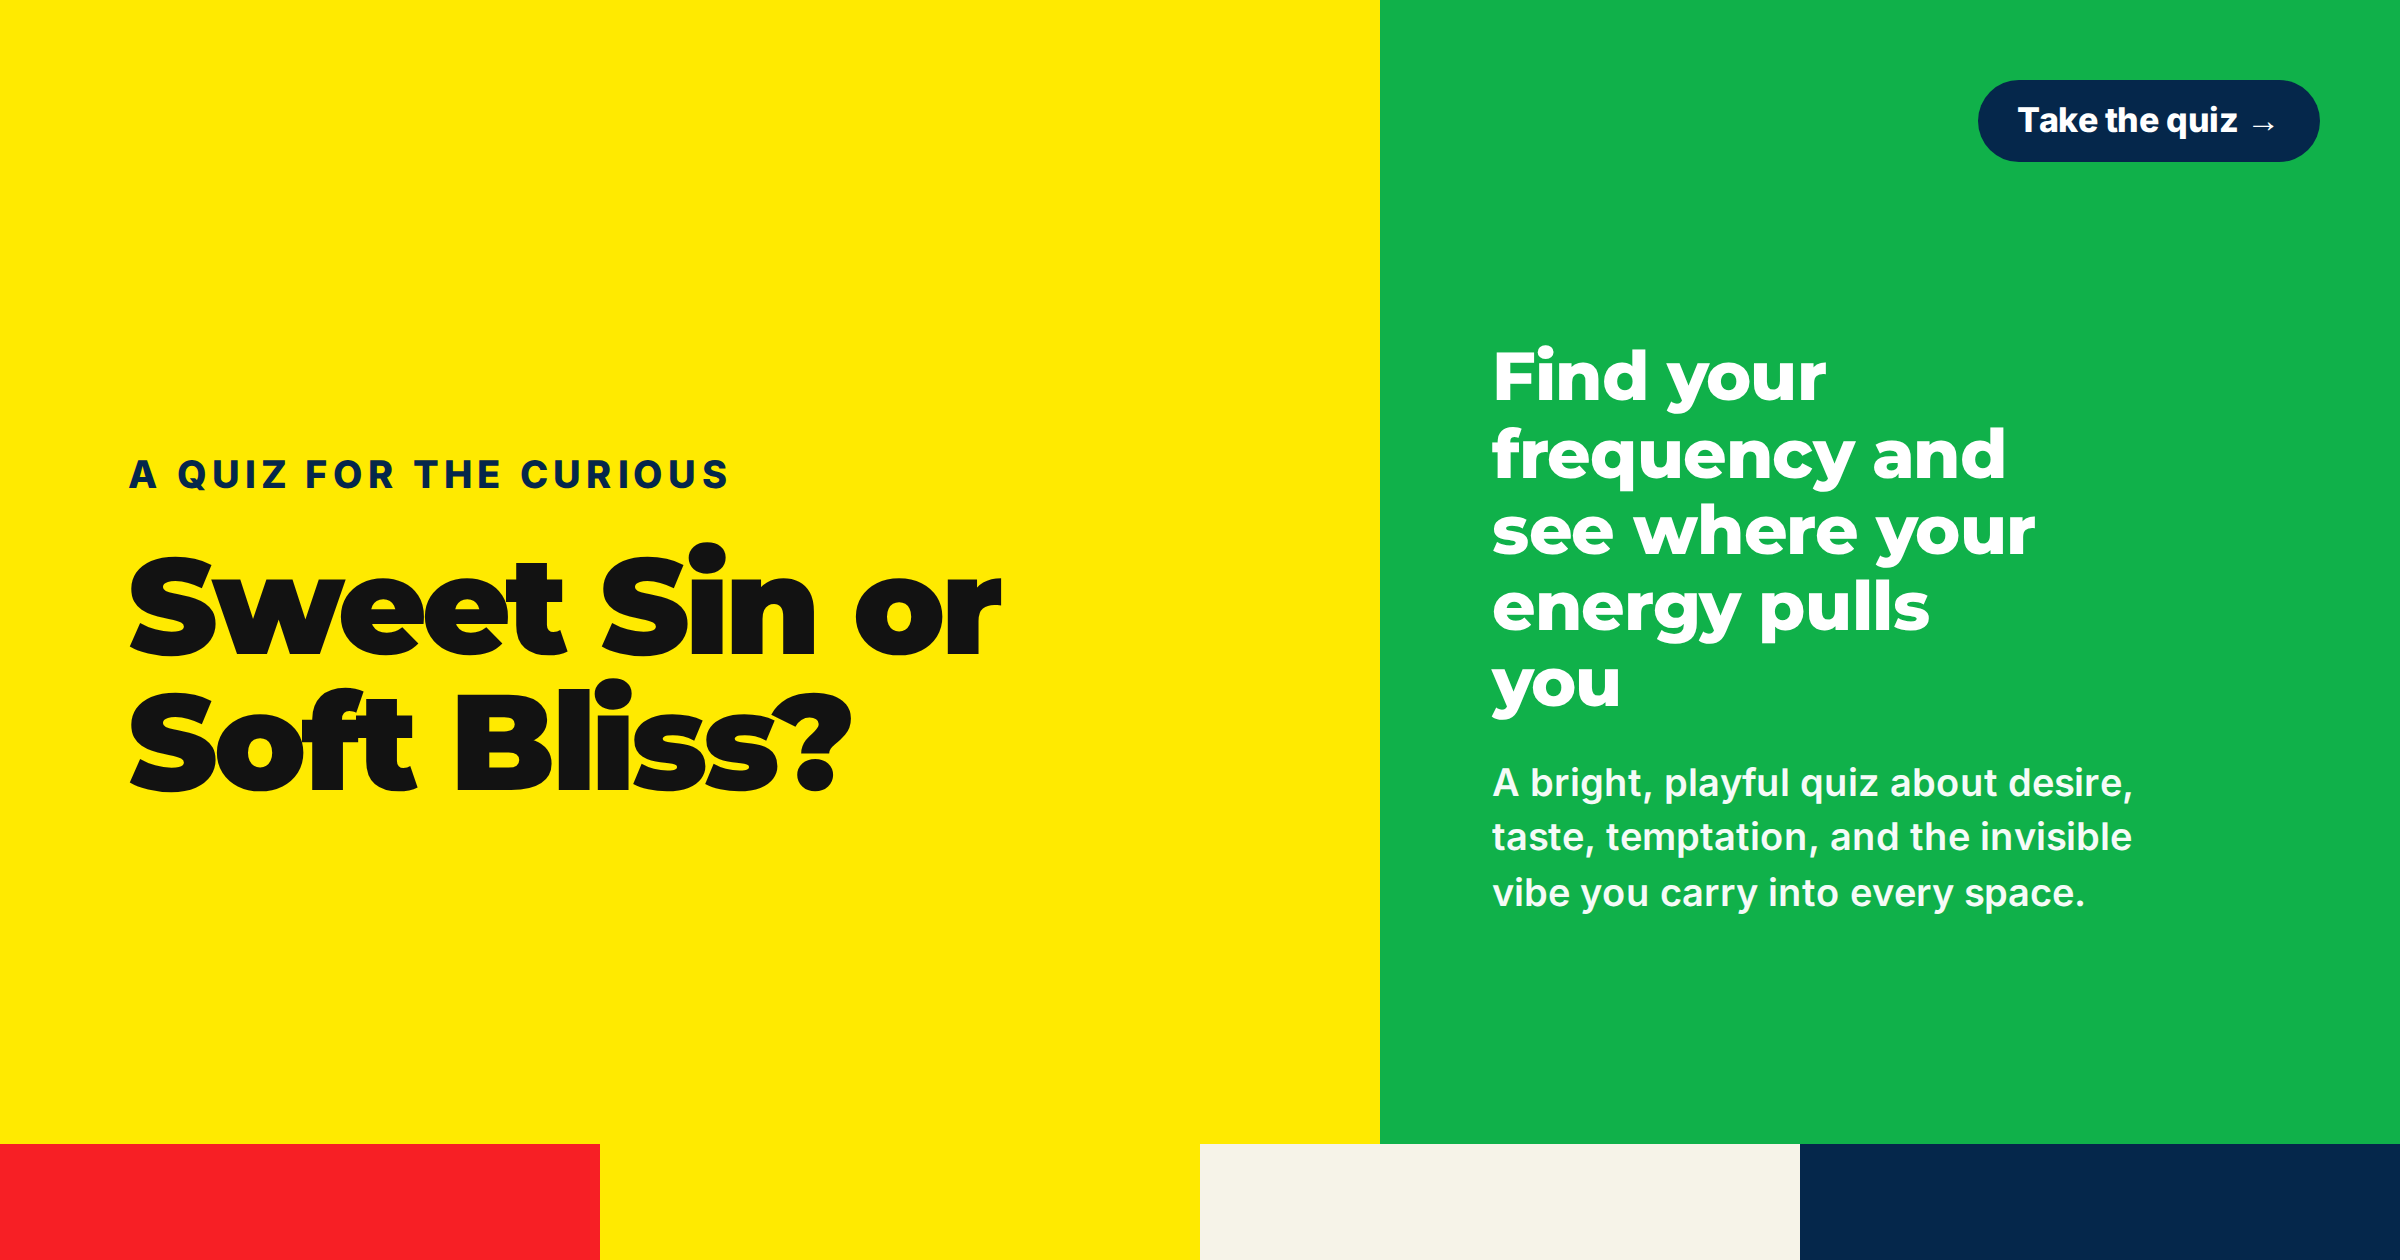
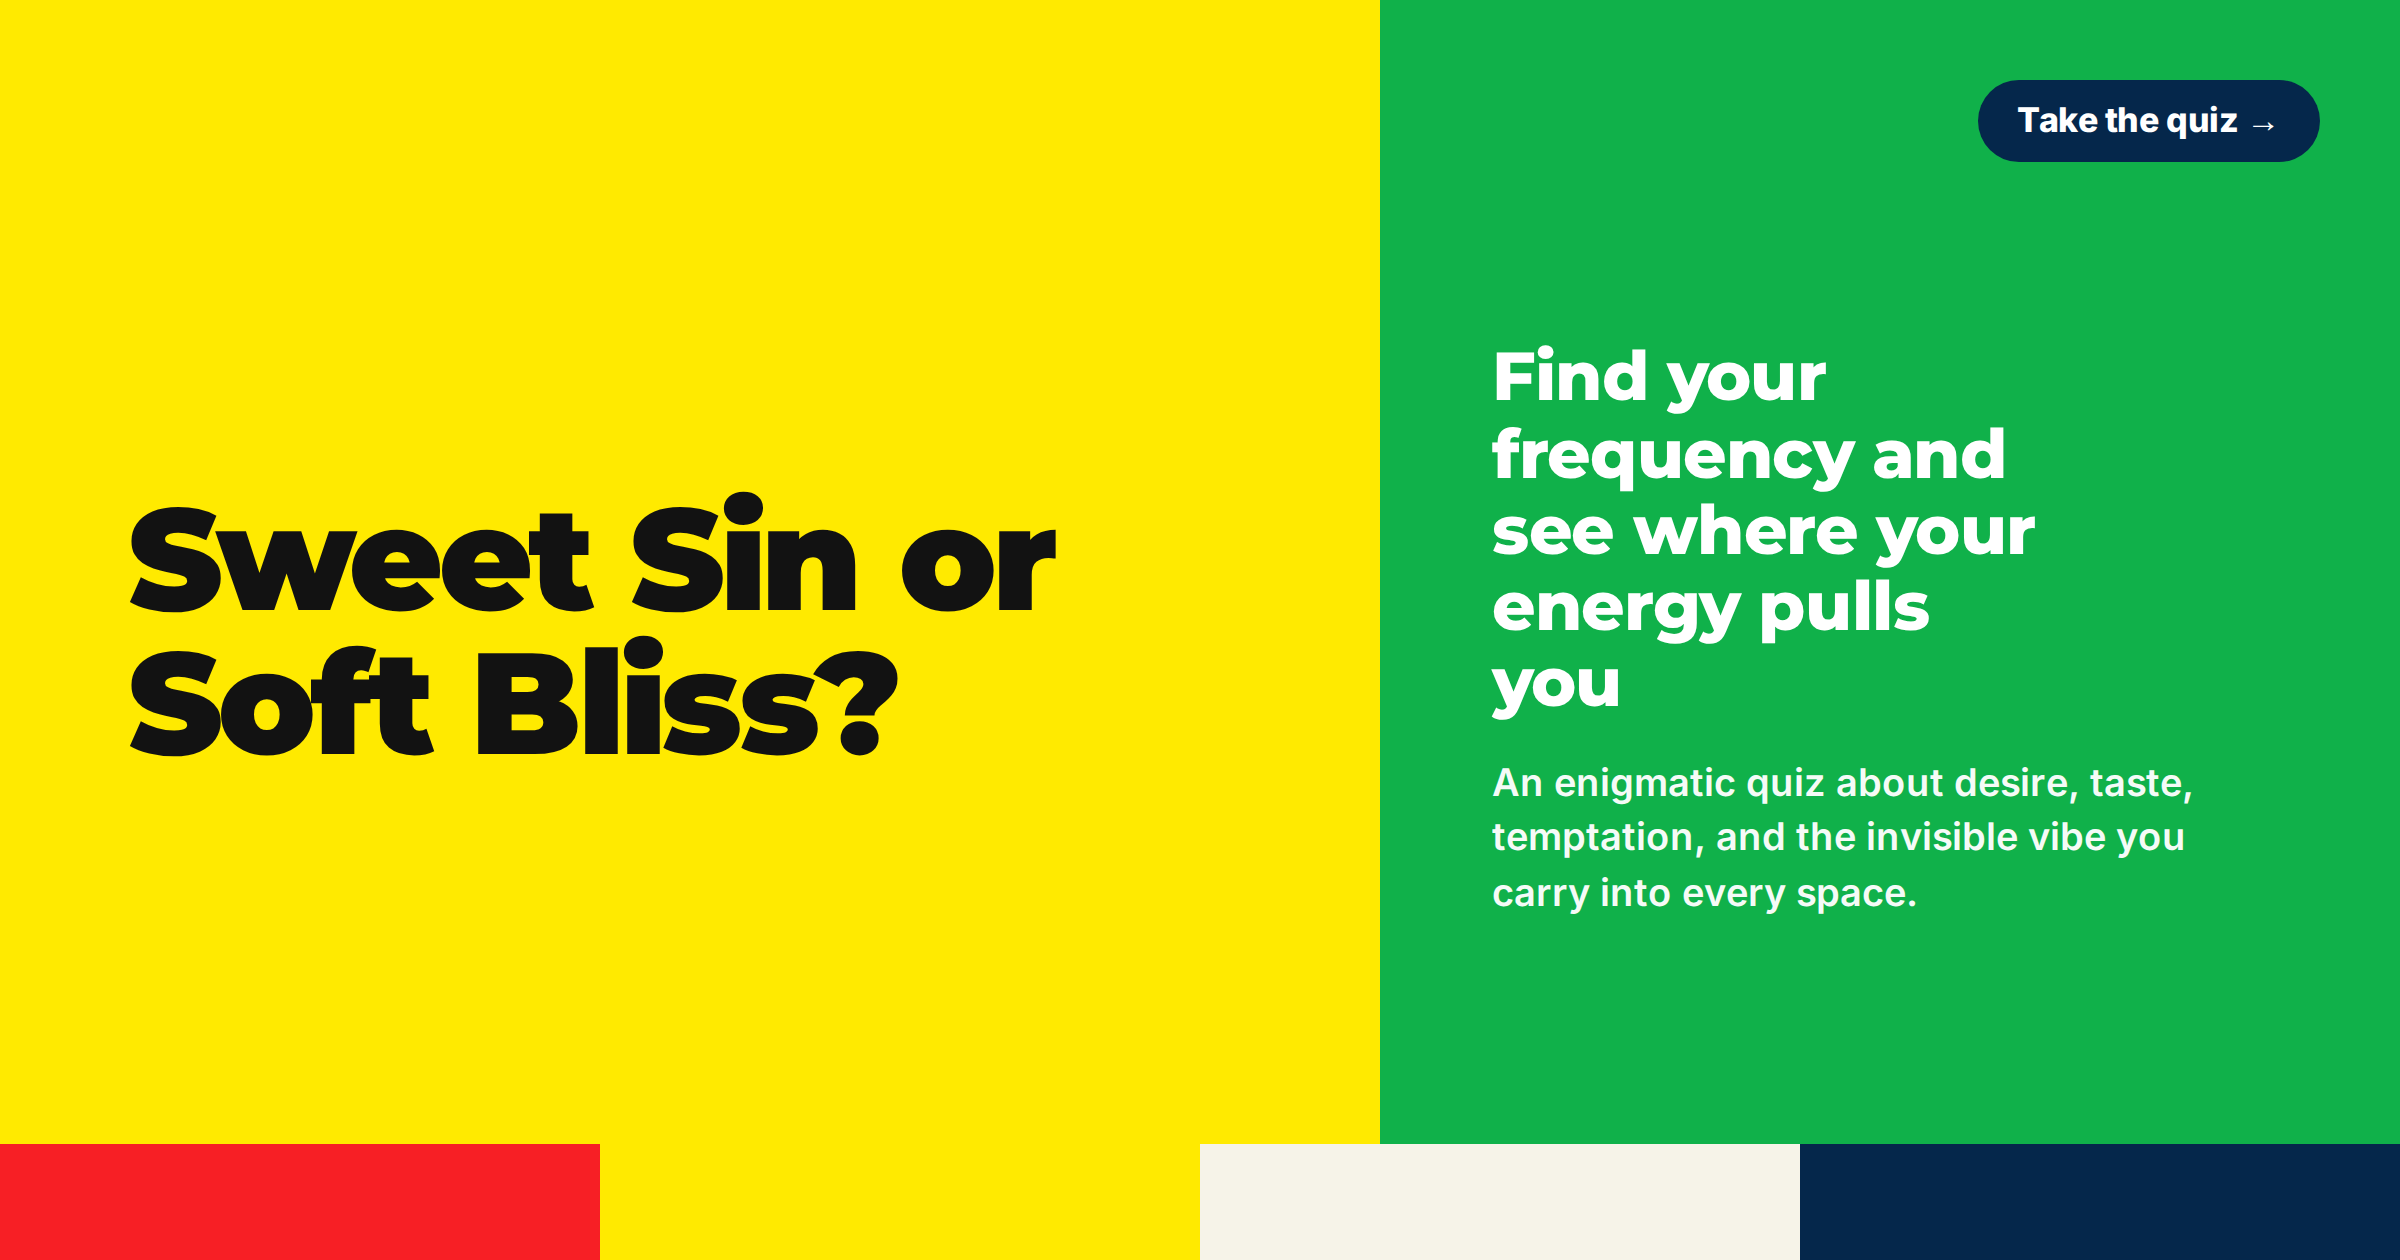
Resize desktop canvas, update description copy, refresh share card

Changed region(s): [[0.0312, 0.3405, 0.4375, 0.65], [0.625, 0.5881, 0.9062, 0.7429]]

diff --git a/index.html b/index.html
@@ -4,17 +4,19 @@
   <meta charset="UTF-8" />
   <meta name="viewport" content="width=device-width, initial-scale=1.0" />
   <meta property="og:title" content="Sweet Sin or Soft Bliss?" />
-  <meta property="og:description" content="Find your frequency and see where your energy pulls you. A bright, playful quiz about desire, taste, temptation, and the invisible vibe you carry into every space." />
+  <meta property="og:description" content="Find your frequency and see where your energy pulls you. An enigmatic quiz about desire, taste, temptation, and the invisible vibe you carry into every space." />
   <meta property="og:type" content="website" />
-  <meta property="og:image" content="./assets/share-card.png" />
+  <meta property="og:url" content="https://katie-ssh.github.io/sweet-sin-or-soft-bliss/" />
+  <meta property="og:image" content="https://katie-ssh.github.io/sweet-sin-or-soft-bliss/assets/share-card.png" />
   <meta property="og:image:width" content="1200" />
   <meta property="og:image:height" content="630" />
   <meta property="og:image:alt" content="Sweet Sin or Soft Bliss? — take the quiz" />
   <meta name="twitter:card" content="summary_large_image" />
   <meta name="twitter:title" content="Sweet Sin or Soft Bliss?" />
-  <meta name="twitter:description" content="Find your frequency and see where your energy pulls you. A bright, playful quiz about desire, taste, temptation, and the invisible vibe you carry into every space." />
-  <meta name="twitter:image" content="./assets/share-card.png" />
+  <meta name="twitter:description" content="Find your frequency and see where your energy pulls you. An enigmatic quiz about desire, taste, temptation, and the invisible vibe you carry into every space." />
+  <meta name="twitter:image" content="https://katie-ssh.github.io/sweet-sin-or-soft-bliss/assets/share-card.png" />
   <meta name="twitter:image:alt" content="Sweet Sin or Soft Bliss? — take the quiz" />
+  <link rel="canonical" href="https://katie-ssh.github.io/sweet-sin-or-soft-bliss/" />
   <title>Sweet Sin or Soft Bliss?</title>
   <link rel="preconnect" href="https://fonts.googleapis.com">
   <link rel="preconnect" href="https://fonts.gstatic.com" crossorigin>
@@ -49,34 +51,34 @@
       padding: clamp(12px, 2vw, 28px);
     }
     .app {
-      max-width: 980px;
+      max-width: 800px;
       margin: 0 auto;
       background: var(--white);
       border: 2px solid rgba(0,0,0,0.08);
-      border-radius: 34px;
+      border-radius: 28px;
       box-shadow: var(--shadow);
       overflow: hidden;
     }
     .hero {
       display: grid;
       grid-template-columns: 1.1fr 0.9fr;
-      min-height: 280px;
+      min-height: 200px;
     }
     .hero-left {
       background: var(--yellow);
-      padding: clamp(24px, 4vw, 48px);
+      padding: clamp(18px, 3vw, 32px);
       display: grid;
       align-content: center;
-      gap: 14px;
+      gap: 10px;
       border-right: 2px solid rgba(0,0,0,0.08);
     }
     .hero-right {
       background: var(--green);
       color: white;
-      padding: clamp(24px, 4vw, 48px);
+      padding: clamp(18px, 3vw, 32px);
       display: grid;
       align-content: center;
-      gap: 12px;
+      gap: 10px;
     }
     h1, h2, h3 {
       font-family: var(--display);
@@ -84,13 +86,13 @@
       letter-spacing: -0.04em;
       text-transform: none;
     }
-    h1 { font-size: clamp(2.5rem, 7vw, 5rem); max-width: 8ch; }
-    .hero-right h2 { font-size: clamp(1.8rem, 4vw, 3rem); max-width: 10ch; }
-    .hero-left p, .hero-right p { max-width: 34ch; font-size: 1rem; line-height: 1.5; }
+    h1 { font-size: clamp(2rem, 5vw, 3.4rem); max-width: 8ch; }
+    .hero-right h2 { font-size: clamp(1.35rem, 2.8vw, 2.1rem); max-width: 10ch; }
+    .hero-left p, .hero-right p { max-width: 30ch; font-size: 0.92rem; line-height: 1.5; }
     .grid-band {
       display: grid;
       grid-template-columns: repeat(4, 1fr);
-      min-height: 108px;
+      min-height: 72px;
       border-top: 2px solid rgba(0,0,0,0.08);
       border-bottom: 2px solid rgba(0,0,0,0.08);
     }
@@ -99,9 +101,9 @@
     .grid-band div:nth-child(3) { background: var(--soft); }
     .grid-band div:nth-child(4) { background: var(--navy); }
     .quiz {
-      padding: clamp(20px, 4vw, 40px);
+      padding: clamp(16px, 3vw, 30px);
       display: grid;
-      gap: 24px;
+      gap: 20px;
       background: linear-gradient(180deg, rgba(255,234,0,0.08), rgba(255,255,255,0));
     }
     .progress {
@@ -125,7 +127,7 @@
       font-size: 13px;
       font-weight: 700;
     }
-    .q-title { font-size: clamp(1.8rem, 4vw, 3rem); max-width: 13ch; }
+    .q-title { font-size: clamp(1.5rem, 3vw, 2.2rem); max-width: 22ch; }
     .q-copy { max-width: 44ch; color: var(--muted); margin-top: 10px; }
     .answers {
       display: grid;
@@ -241,7 +243,7 @@
       display: grid;
       gap: 24px;
     }
-    .result-name { font-size: clamp(2.2rem, 6vw, 4.4rem); max-width: 8ch; }
+    .result-name { font-size: clamp(1.8rem, 4.5vw, 3.2rem); max-width: 8ch; }
     .result-copy { max-width: 44ch; line-height: 1.55; }
     .traits {
       display: grid;
@@ -251,9 +253,9 @@
     .trait {
       border: 2px solid rgba(0,0,0,0.12);
       border-radius: var(--radius-sm);
-      padding: 16px;
+      padding: 13px;
       background: rgba(255,255,255,0.35);
-      min-height: 108px;
+      min-height: 84px;
       backdrop-filter: blur(2px);
     }
     .trait strong {
@@ -330,7 +332,7 @@
       </div>
       <div class="hero-right">
         <h2>Find your frequency and see where your energy pulls you</h2>
-        <p>A bright, playful quiz about desire, taste, temptation, and the invisible vibe you carry into every space.</p>
+        <p>An enigmatic quiz about desire, taste, temptation, and the invisible vibe you carry into every space.</p>
       </div>
     </section>
 
